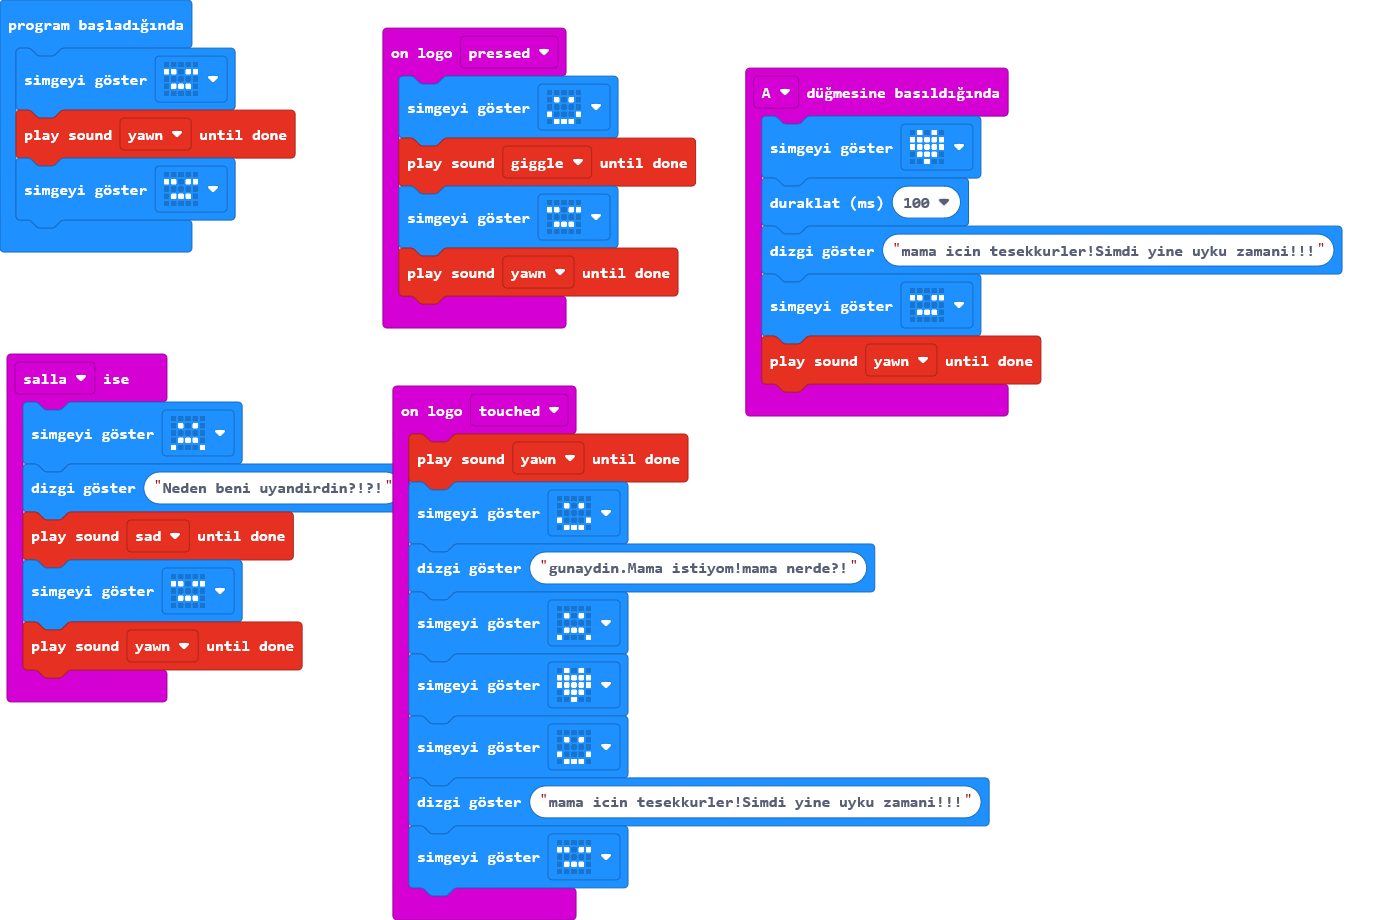
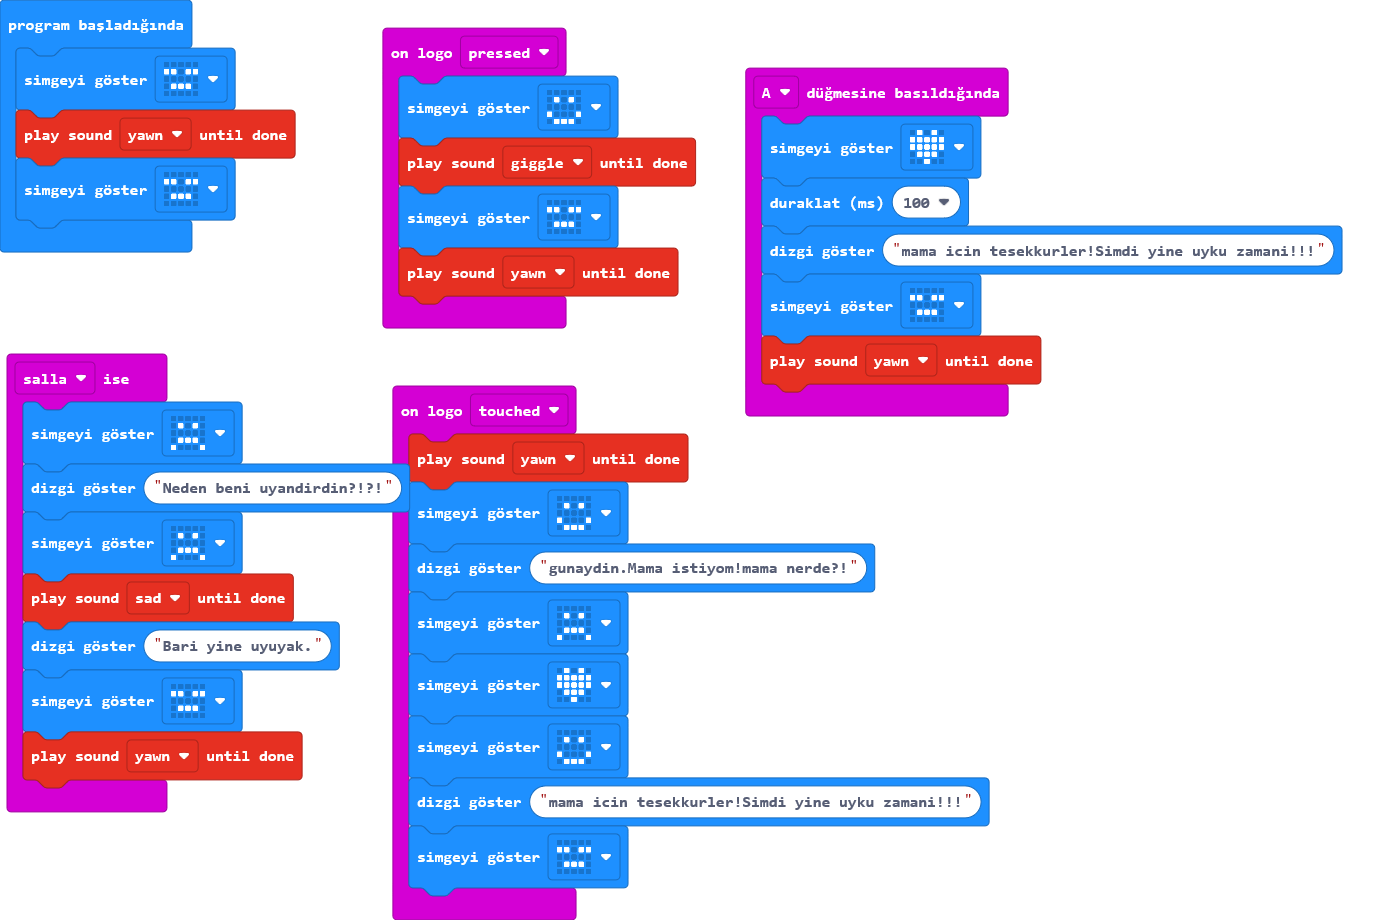
Update main.blocks, main.ts

Changed region(s): [[0.0, 0.5478, 0.2468, 0.8826], [0.2776, 0.487, 0.3085, 0.5783]]

diff --git a/main.ts b/main.ts
@@ -8,7 +8,9 @@ input.onButtonPressed(Button.A, function () {
 input.onGesture(Gesture.Shake, function () {
     basic.showIcon(IconNames.Sad)
     basic.showString("Neden beni uyandirdin?!?!")
+    basic.showIcon(IconNames.Sad)
     soundExpression.sad.playUntilDone()
+    basic.showString("Bari yine uyuyak.")
     basic.showIcon(IconNames.Asleep)
     soundExpression.yawn.playUntilDone()
 })
